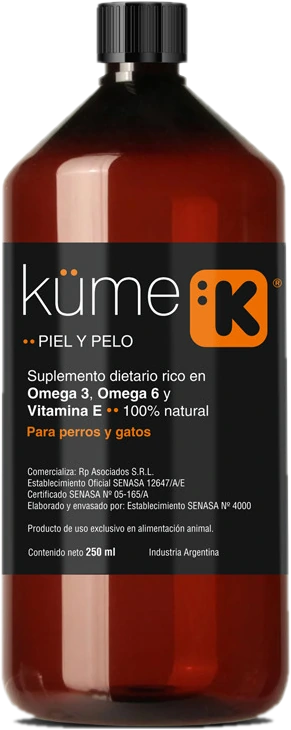
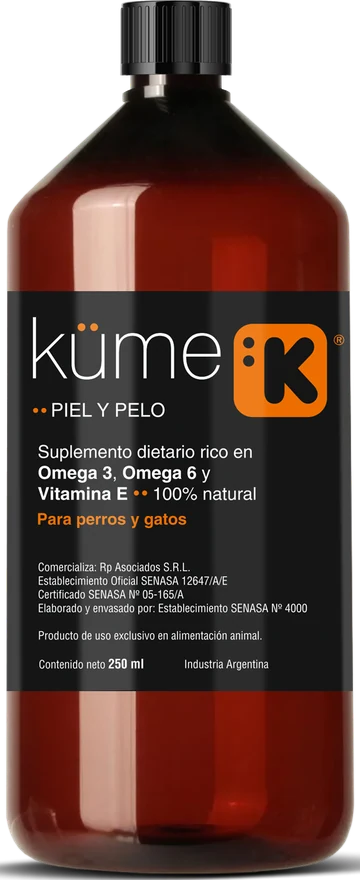
Fotos de producto en mayor resolución (Drive de Küme): gatos, omegas, Muscular Plus, Recovery Forte
Claude-Session: https://claude.ai/code/session_01ADZgizSrewMjTn8oQ9WNPL

diff --git a/index.html b/index.html
@@ -147,7 +147,7 @@
         <li class="panel panel--gatos panel--verde">
           <a class="panel__link" href="https://kume.com.ar/productos/" target="_blank" rel="noopener" data-detalle="gatos" data-cursor aria-haspopup="dialog">
             <span class="panel__deco" aria-hidden="true"><img src="assets/img/silueta-gato.svg" alt=""></span>
-            <span class="panel__pack"><img src="assets/img/pack-gatos.webp" alt="" width="394" height="771" loading="lazy"></span>
+            <span class="panel__pack"><img src="assets/img/pack-gatos.webp" alt="" width="446" height="880" loading="lazy"></span>
             <span class="panel__body">
               <span class="panel__label">Alimento holístico</span>
               <span class="panel__title">Gatos</span>
@@ -158,7 +158,7 @@
         <li class="panel panel--omegas panel--gris">
           <a class="panel__link" href="https://kume.com.ar/productos/" target="_blank" rel="noopener" data-detalle="omegas" data-cursor aria-haspopup="dialog">
             <span class="panel__deco" aria-hidden="true"><img src="assets/img/silueta-perro.svg" alt=""><img src="assets/img/silueta-gato.svg" alt=""></span>
-            <span class="panel__pack"><img src="assets/img/pack-omegas.webp" alt="" width="291" height="730" loading="lazy"></span>
+            <span class="panel__pack"><img src="assets/img/pack-omegas.webp" alt="" width="360" height="880" loading="lazy"></span>
             <span class="panel__body">
               <span class="panel__label">Suplemento alimenticio</span>
               <span class="panel__title">Omegas 3 y 6</span>
@@ -169,7 +169,7 @@
         <li class="panel panel--muscular-plus panel--violeta">
           <a class="panel__link" href="https://kume.com.ar/productos/" target="_blank" rel="noopener" data-detalle="muscular-plus" data-cursor aria-haspopup="dialog">
             <span class="panel__deco" aria-hidden="true"><img src="assets/img/silueta-perro.svg" alt=""><img src="assets/img/silueta-gato.svg" alt=""></span>
-            <span class="panel__pack"><img src="assets/img/pack-muscular-plus.webp" alt="" width="247" height="296" loading="lazy"></span>
+            <span class="panel__pack"><img src="assets/img/pack-muscular-plus.webp" alt="" width="344" height="375" loading="lazy"></span>
             <span class="panel__body">
               <span class="panel__label">Concentrado proteico</span>
               <span class="panel__title">Muscular Plus</span>
@@ -180,7 +180,7 @@
         <li class="panel panel--recovery-forte panel--violeta">
           <a class="panel__link" href="https://kume.com.ar/productos/" target="_blank" rel="noopener" data-detalle="recovery-forte" data-cursor aria-haspopup="dialog">
             <span class="panel__deco" aria-hidden="true"><img src="assets/img/silueta-perro.svg" alt=""><img src="assets/img/silueta-gato.svg" alt=""></span>
-            <span class="panel__pack"><img src="assets/img/pack-recovery-forte.webp" alt="" width="255" height="313" loading="lazy"></span>
+            <span class="panel__pack"><img src="assets/img/pack-recovery-forte.webp" alt="" width="344" height="376" loading="lazy"></span>
             <span class="panel__body">
               <span class="panel__label">Concentrado proteico</span>
               <span class="panel__title">Recovery Forte</span>
@@ -504,7 +504,7 @@
             <ul class="detail__chips"><li>1,5 kg</li><li>Grain free</li></ul>
             <a class="btn btn--dark" href="https://kume3.mitiendanube.com/" target="_blank" rel="noopener">Comprá online</a>
           </div>
-          <span class="detail__pack"><img src="assets/img/pack-gatos.webp" alt="Bolsa de alimento Küme Gatos, 1,5 kg" width="394" height="771"></span>
+          <span class="detail__pack"><img src="assets/img/pack-gatos.webp" alt="Bolsa de alimento Küme Gatos, 1,5 kg" width="446" height="880"></span>
         </header>
         <div class="detail__body">
           <section class="detail__sec"><h3>Beneficios</h3><dl class="benefits"><div><dt>Piel sana y pelo brillante</dt><dd>Contiene ácidos grasos Omega 3 y 6, zinc-metionina, cobre, biotina y vitamina A, que ayudan a mantener la piel saludable, el pelo suave y brillante. Mantiene el color del manto piloso.</dd></div><div><dt>Salud urinaria</dt><dd>Los bajos niveles de magnesio, los niveles controlados del pH urinario logrado (6,2 – 6,5) ayudan a minimizar la formación de todo tipo de urolitos (cálculos urinarios). La incorporación de arándanos, uva ursi y zarzaparrilla ayuda a mantener un tracto urinario saludable.</dd></div><div><dt>Salud intestinal</dt><dd>La presencia de prebióticos (pulpa de remolacha), zeolita y una adecuada relación entre fibras solubles e insolubles (fructooliosacáridos – FOS y mananooligosacáridos – MOS), ayudan a regular el tránsito intestinal y contribuyen a mantener saludable el ecosistema colónico (bifidobacter y lactobacilos). La Yucca schidigera contribuye a minimizar el olor de las deposiciones (orina y materia fecal).</dd></div><div><dt>Salud articular</dt><dd>La presencia de glucosamina, condroitín sulfato y manganeso previene y mejora la salud articular.</dd></div><div><dt>Alta palatabilidad</dt><dd>Sustentada en los aminoácidos de la hidrólisis de las proteínas y de los complejos herbales naturales.</dd></div><div><dt>Mayor y mejor calidad de vida</dt><dd>La presencia de antioxidantes naturales capta los radicales libres y retrasa los efectos del envejecimiento celular. Extracto de romero, licopeno, polifenoles del té verde, extracto de arándanos, uva ursi, zarzaparilla, Garcinia cambogia, moringa, graviola y canela.</dd></div><div><dt>Control de la grasa corporal</dt><dd>La presencia de Garcinia cambogia contribuye a evitar la formación y acumulación de grasa corporal excesiva.</dd></div><div><dt>Control de bolas de pelo (Hairball Control)</dt><dd>Minimiza la formación de bolas de pelo en el tracto gastrointestinal por efecto del lamido.</dd></div><div><dt>Salud bucal</dt><dd>La presencia de pirofosfato ácido de sodio minimiza la formación de sarro dental de manera natural.</dd></div><div><dt>Salud inmunológica</dt><dd>Los nucleótidos de levadura actúan como estimulantes de las defensas que posibilitan una mayor tasa de anticuerpos post-vacunal, y una mayor y mejor respuesta inmunitaria ante el stress o enfermedad, éstos ayudan a reforzar la salud inmunológica.</dd></div></dl></section>
@@ -522,7 +522,7 @@
             <ul class="detail__chips"><li>250 ml y 500 ml</li><li>Para perros y gatos</li></ul>
             <a class="btn btn--dark" href="https://kume3.mitiendanube.com/" target="_blank" rel="noopener">Comprá online</a>
           </div>
-          <span class="detail__pack"><img src="assets/img/pack-omegas.webp" alt="Botella de Küme Omegas 3 y 6, 250 ml" width="291" height="730"></span>
+          <span class="detail__pack"><img src="assets/img/pack-omegas.webp" alt="Botella de Küme Omegas 3 y 6, 250 ml" width="360" height="880"></span>
         </header>
         <div class="detail__body">
           <section class="detail__sec"><h3>Qué es</h3><p>Es una mezcla de aceite de pescados azules de mares fríos y profundos, aceites vegetales, aceite de girasol alto oleico (fuente de Omega 9) y vitamina E. Desarrollado especialmente para el mantenimiento de la salud de perros y gatos.</p></section>
@@ -540,7 +540,7 @@
             <ul class="detail__chips"><li>250 g</li><li>Para perros y gatos</li></ul>
             <a class="btn btn--dark" href="https://kume3.mitiendanube.com/" target="_blank" rel="noopener">Comprá online</a>
           </div>
-          <span class="detail__pack"><img src="assets/img/pack-muscular-plus.webp" alt="Frascos de Küme Muscular Plus" width="247" height="296"></span>
+          <span class="detail__pack"><img src="assets/img/pack-muscular-plus.webp" alt="Frascos de Küme Muscular Plus" width="344" height="375"></span>
         </header>
         <div class="detail__body">
           <section class="detail__sec"><h3>Beneficios y indicaciones</h3><p>Suplemento proteico para desarrollo muscular de la alta competencia. Soporte nutricional de elección en el manejo de pacientes oncológicos. Suplementación post cirugías traumatológicas. Por ser un polvo puede diluirse y ser suministrado por mamadera, sonda, papilla o bien seco, espolvoreado en la ración diaria.</p></section>
@@ -559,7 +559,7 @@
             <ul class="detail__chips"><li>150 g y 250 g</li><li>Para perros y gatos</li></ul>
             <a class="btn btn--dark" href="https://kume3.mitiendanube.com/" target="_blank" rel="noopener">Comprá online</a>
           </div>
-          <span class="detail__pack"><img src="assets/img/pack-recovery-forte.webp" alt="Frascos de Küme Recovery Forte" width="255" height="313"></span>
+          <span class="detail__pack"><img src="assets/img/pack-recovery-forte.webp" alt="Frascos de Küme Recovery Forte" width="344" height="376"></span>
         </header>
         <div class="detail__body">
           <section class="detail__sec"><h3>Beneficios y indicaciones</h3><p>Cuando hay razones específicas para reforzar la alimentación y la recuperación. Para la alimentación de cachorros huérfanos, suplementación de hembras lactantes. Post diarreas, alimentación en cirugías gastrointestinales. Caquexia y anorexia. Por ser un polvo puede diluirse y ser suministrado por mamadera, sonda, papilla o bien seco, espolvoreado en la ración diaria.</p></section>
